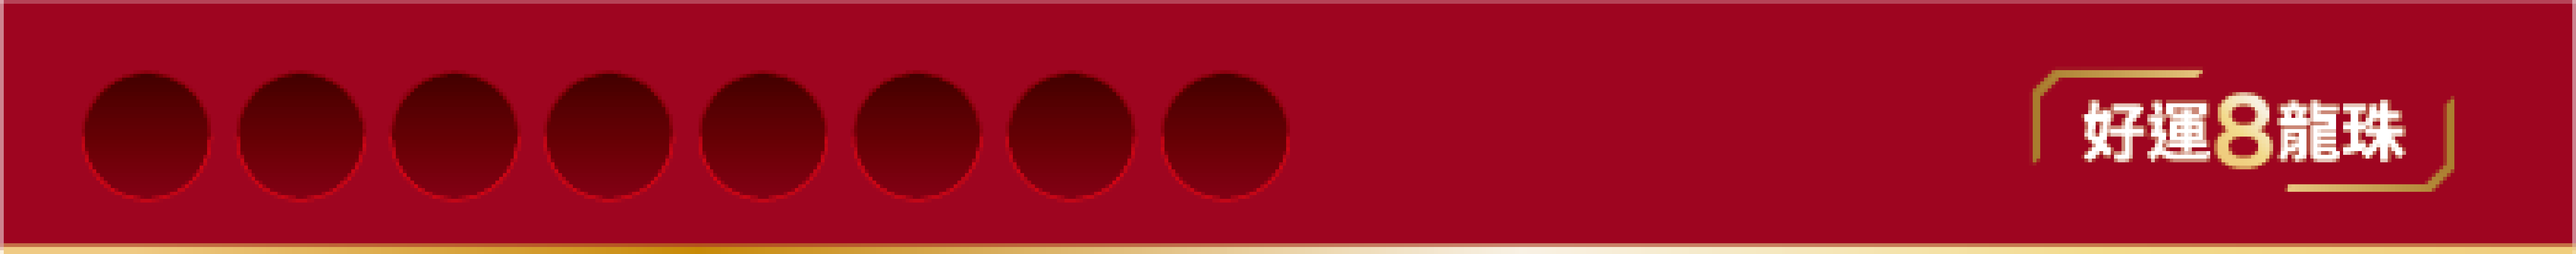
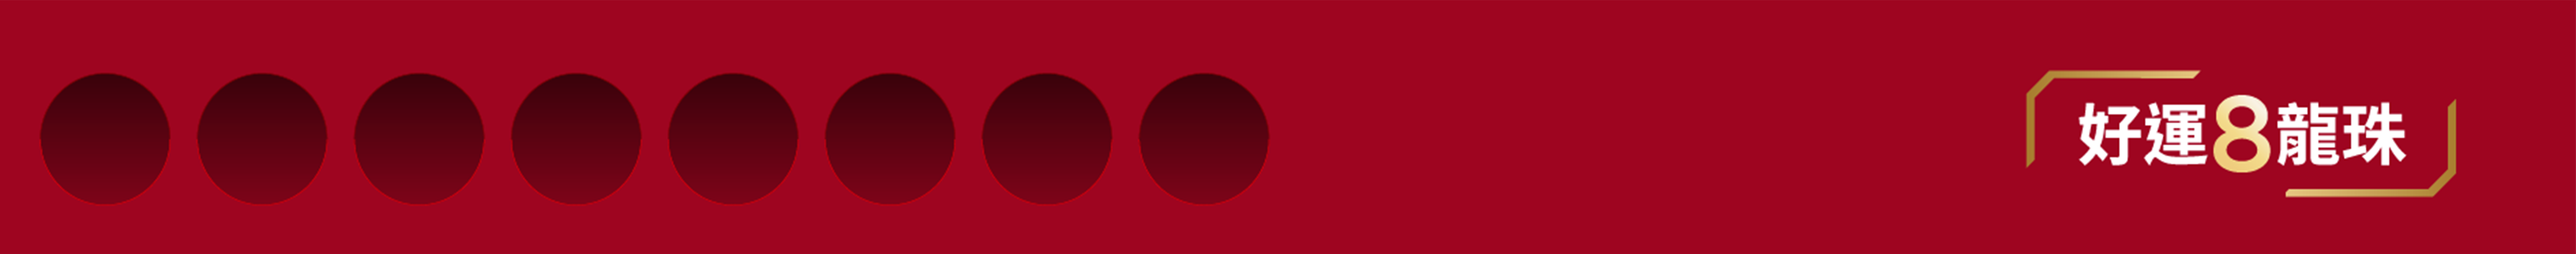
[modify] change game header

diff --git a/docs/sw.js b/docs/sw.js
@@ -1,1 +1,1 @@
-if(!self.define){let e,i={};const a=(a,s)=>(a=new URL(a+".js",s).href,i[a]||new Promise((i=>{if("document"in self){const e=document.createElement("script");e.src=a,e.onload=i,document.head.appendChild(e)}else e=a,importScripts(a),i()})).then((()=>{let e=i[a];if(!e)throw new Error(`Module ${a} didn’t register its module`);return e})));self.define=(s,n)=>{const r=e||("document"in self?document.currentScript.src:"")||location.href;if(i[r])return;let c={};const d=e=>a(e,r),o={module:{uri:r},exports:c,require:d};i[r]=Promise.all(s.map((e=>o[e]||d(e)))).then((e=>(n(...e),c)))}}define(["./workbox-fa446783"],(function(e){"use strict";self.skipWaiting(),e.clientsClaim(),e.precacheAndRoute([{url:"assets/index-8cd04b95.js",revision:null},{url:"assets/index-d4e6b2a1.css",revision:null},{url:"index.html",revision:"e6782ae1e422f24c08f292a48dc8074b"},{url:"registerSW.js",revision:"1872c500de691dce40960bb85481de07"},{url:"321.mp3",revision:"3bd591d610049c259f3768fd35f8ba0f"},{url:"audio-speaker-off.png",revision:"e46a88ab8493f86764cbe64dd250adf5"},{url:"audio-speaker-on.png",revision:"0f68480c86cd9569a7bd660ea0b1abb1"},{url:"bg.mp3",revision:"1939fe9c9d71e53d960f581d068bd9ed"},{url:"click.mp3",revision:"0549e1376c71663510db6425f2b10d4e"},{url:"pwa-logo.png",revision:"ecc5baf4ff30ede170fc950900658b74"},{url:"img/icons/android-chrome-192x192.png",revision:"3ef4a95391ff2bfd5f442ea89292b3fa"},{url:"img/icons/android-chrome-512x512.png",revision:"4fd10861636b509a53d091e1c6cd8f64"},{url:"img/icons/android-chrome-maskable-192x192.png",revision:"3ef4a95391ff2bfd5f442ea89292b3fa"},{url:"img/icons/android-chrome-maskable-512x512.png",revision:"4fd10861636b509a53d091e1c6cd8f64"},{url:"img/icons/apple-touch-icon-120x120.png",revision:"c24de0bfa43e42fd8568d1b38262c4c3"},{url:"img/icons/apple-touch-icon-152x152.png",revision:"de8e6c5c1e047c79711200a9529be00e"},{url:"img/icons/apple-touch-icon-180x180.png",revision:"f66b5015d880335cb607d474025316e8"},{url:"img/icons/apple-touch-icon-60x60.png",revision:"91035985e360cd3b9e443066bccdc53a"},{url:"img/icons/apple-touch-icon-76x76.png",revision:"c14d8293625bbec500e0e9dec5848336"},{url:"img/icons/apple-touch-icon.png",revision:"f66b5015d880335cb607d474025316e8"},{url:"img/icons/favicon-16x16.png",revision:"49610a9d0e3026ebfaec1aa32f22b67f"},{url:"img/icons/favicon-32x32.png",revision:"e3c7c3355821030a05ac1e54e105e973"},{url:"img/icons/msapplication-icon-144x144.png",revision:"4db12ddb2969ae559fe8cc63810e7747"},{url:"img/icons/mstile-150x150.png",revision:"8bf70c634505b233c8b293cf3a749278"},{url:"img/icons/safari-pinned-tab.svg",revision:"86b564b18ea6c7e170fa6cb87ca03bcf"},{url:"assets/img/12_14_finished.png",revision:"a870acbf48cc8d64d949abd03ab92052"},{url:"assets/img/ball_light.png",revision:"11ffa497bd4e6f5ba8789b584b464348"},{url:"assets/img/black_bg.png",revision:"2c019e9e6bccf9f989349f8b4902df4d"},{url:"assets/img/charm.png",revision:"7a59770e7caaa60af67a447a67f842f1"},{url:"assets/img/charm_bg.png",revision:"8cbacc76583d1c30f68951fdd04853a2"},{url:"assets/img/charm_shadow.png",revision:"86b80104720873d004d1647e19a723f3"},{url:"assets/img/dragon_right_big.png",revision:"ab83fd69d5b4f3120fda3eeabe7624b5"},{url:"assets/img/dragon_right_small.png",revision:"7c14218028178f9bbfd5a315d4962d76"},{url:"assets/img/final_bg.png",revision:"407d758e0a49c25dd1c33995f34a4c5e"},{url:"assets/img/game_ball.png",revision:"deae6db0f7233ab3299a7c1adbca2372"},{url:"assets/img/game_ball_cloud.png",revision:"5c66e37a987089a9a03389eccf4bf39a"},{url:"assets/img/game_ball_infinite.png",revision:"eb7bb876bad1c0e7d6a8a3e12f31939e"},{url:"assets/img/game_ball_shadow.png",revision:"f14fabcca4dcf82a15e244795d04088c"},{url:"assets/img/game_ball_star.png",revision:"adc6fa1f181f27739f247749d7174809"},{url:"assets/img/game_ball_wind.png",revision:"cc1724b3a3a0015b55884a11a5a0156b"},{url:"assets/img/game_bg.png",revision:"266fa85d2f8a6e8577a09583253ad348"},{url:"assets/img/game_count_down_1.png",revision:"f859b94ffa931eb4905349206055dc31"},{url:"assets/img/game_count_down_2.png",revision:"4fd6d3c6a62e7bfd9ae5c13058d5c640"},{url:"assets/img/game_count_down_3.png",revision:"f5cea6cd0ee93bd623e5185a77307eda"},{url:"assets/img/game_frame.png",revision:"d4c0c7479a3e64ad69362b318e416d94"},{url:"assets/img/game_header.png",revision:"28bfb3ca5717aa08a1f29a76af22f076"},{url:"assets/img/game_intro_bg.png",revision:"1cc102c7f1f418e3e3d1d65a71c6ade2"},{url:"assets/img/ground.png",revision:"3d676879acc881ff0c9f6a341cfcd5a8"},{url:"assets/img/index_title.png",revision:"b46a6cd97f431cc5642c1f8f71c2bd1a"},{url:"assets/img/intro_2_main.png",revision:"2b25254eb89d6118aefe39fd1d9f570f"},{url:"assets/img/intro_2_title.png",revision:"e5a29516eb7efd52bb9f2b3145807ed2"},{url:"assets/img/left_down_cloud.png",revision:"ea9a97fd0861b55bfc00664f990103a4"},{url:"assets/img/logo.png",revision:"5ea8c0e167ad97e21d6dd32295f53a2a"},{url:"assets/img/logo_left_top.png",revision:"5105f4b42da1e5adb9f9ba970a388788"},{url:"assets/img/main_product_full.png",revision:"f9c457d9e6534de2df7f7a8f104045ba"},{url:"assets/img/right_belt_slogan.png",revision:"2e2d8f48c4ab5a5ae8df706fb001f499"},{url:"assets/img/right_down_belt_without_slogan.png",revision:"162d7093e3735f6eb114ea09f10d1169"},{url:"assets/img/right_top_play_button.png",revision:"1d8f6b2392822e67f1ed8721a7282989"},{url:"assets/img/side_dragon.png",revision:"8a5c14fc23b1c3e5de418f4cbfeaa7ec"},{url:"assets/img/wave_ground.png",revision:"2e6c8f7ec31b53c681ae5e4fb721f08f"},{url:"assets/img/woman.png",revision:"7a0e3bb88a54e81e1091a5b846b8bf45"},{url:"assets/img/yellow_bg.png",revision:"9aee5a12e6b5cdd2dacf847ac39b736f"},{url:"manifest.webmanifest",revision:"57439dbce5a2c575d7bbf99676e164bf"}],{}),e.cleanupOutdatedCaches(),e.registerRoute(new e.NavigationRoute(e.createHandlerBoundToURL("index.html")))}));
+if(!self.define){let e,i={};const a=(a,s)=>(a=new URL(a+".js",s).href,i[a]||new Promise((i=>{if("document"in self){const e=document.createElement("script");e.src=a,e.onload=i,document.head.appendChild(e)}else e=a,importScripts(a),i()})).then((()=>{let e=i[a];if(!e)throw new Error(`Module ${a} didn’t register its module`);return e})));self.define=(s,n)=>{const r=e||("document"in self?document.currentScript.src:"")||location.href;if(i[r])return;let c={};const d=e=>a(e,r),o={module:{uri:r},exports:c,require:d};i[r]=Promise.all(s.map((e=>o[e]||d(e)))).then((e=>(n(...e),c)))}}define(["./workbox-fa446783"],(function(e){"use strict";self.skipWaiting(),e.clientsClaim(),e.precacheAndRoute([{url:"assets/index-8cd04b95.js",revision:null},{url:"assets/index-d4e6b2a1.css",revision:null},{url:"index.html",revision:"e6782ae1e422f24c08f292a48dc8074b"},{url:"registerSW.js",revision:"1872c500de691dce40960bb85481de07"},{url:"321.mp3",revision:"3bd591d610049c259f3768fd35f8ba0f"},{url:"audio-speaker-off.png",revision:"e46a88ab8493f86764cbe64dd250adf5"},{url:"audio-speaker-on.png",revision:"0f68480c86cd9569a7bd660ea0b1abb1"},{url:"bg.mp3",revision:"1939fe9c9d71e53d960f581d068bd9ed"},{url:"click.mp3",revision:"0549e1376c71663510db6425f2b10d4e"},{url:"pwa-logo.png",revision:"ecc5baf4ff30ede170fc950900658b74"},{url:"assets/img/12_14_finished.png",revision:"a870acbf48cc8d64d949abd03ab92052"},{url:"assets/img/ball_light.png",revision:"11ffa497bd4e6f5ba8789b584b464348"},{url:"assets/img/black_bg.png",revision:"2c019e9e6bccf9f989349f8b4902df4d"},{url:"assets/img/charm.png",revision:"7a59770e7caaa60af67a447a67f842f1"},{url:"assets/img/charm_bg.png",revision:"8cbacc76583d1c30f68951fdd04853a2"},{url:"assets/img/charm_shadow.png",revision:"86b80104720873d004d1647e19a723f3"},{url:"assets/img/dragon_right_big.png",revision:"ab83fd69d5b4f3120fda3eeabe7624b5"},{url:"assets/img/dragon_right_small.png",revision:"7c14218028178f9bbfd5a315d4962d76"},{url:"assets/img/final_bg.png",revision:"407d758e0a49c25dd1c33995f34a4c5e"},{url:"assets/img/game_ball.png",revision:"deae6db0f7233ab3299a7c1adbca2372"},{url:"assets/img/game_ball_cloud.png",revision:"5c66e37a987089a9a03389eccf4bf39a"},{url:"assets/img/game_ball_infinite.png",revision:"eb7bb876bad1c0e7d6a8a3e12f31939e"},{url:"assets/img/game_ball_shadow.png",revision:"f14fabcca4dcf82a15e244795d04088c"},{url:"assets/img/game_ball_star.png",revision:"adc6fa1f181f27739f247749d7174809"},{url:"assets/img/game_ball_wind.png",revision:"cc1724b3a3a0015b55884a11a5a0156b"},{url:"assets/img/game_bg.png",revision:"266fa85d2f8a6e8577a09583253ad348"},{url:"assets/img/game_count_down_1.png",revision:"f859b94ffa931eb4905349206055dc31"},{url:"assets/img/game_count_down_2.png",revision:"4fd6d3c6a62e7bfd9ae5c13058d5c640"},{url:"assets/img/game_count_down_3.png",revision:"f5cea6cd0ee93bd623e5185a77307eda"},{url:"assets/img/game_frame.png",revision:"d4c0c7479a3e64ad69362b318e416d94"},{url:"assets/img/game_header.png",revision:"ab51a073e76d2499060c8a80f317b034"},{url:"assets/img/game_intro_bg.png",revision:"1cc102c7f1f418e3e3d1d65a71c6ade2"},{url:"assets/img/ground.png",revision:"3d676879acc881ff0c9f6a341cfcd5a8"},{url:"assets/img/index_title.png",revision:"b46a6cd97f431cc5642c1f8f71c2bd1a"},{url:"assets/img/intro_2_main.png",revision:"2b25254eb89d6118aefe39fd1d9f570f"},{url:"assets/img/intro_2_title.png",revision:"e5a29516eb7efd52bb9f2b3145807ed2"},{url:"assets/img/left_down_cloud.png",revision:"ea9a97fd0861b55bfc00664f990103a4"},{url:"assets/img/logo.png",revision:"5ea8c0e167ad97e21d6dd32295f53a2a"},{url:"assets/img/logo_left_top.png",revision:"5105f4b42da1e5adb9f9ba970a388788"},{url:"assets/img/main_product_full.png",revision:"f9c457d9e6534de2df7f7a8f104045ba"},{url:"assets/img/right_belt_slogan.png",revision:"2e2d8f48c4ab5a5ae8df706fb001f499"},{url:"assets/img/right_down_belt_without_slogan.png",revision:"162d7093e3735f6eb114ea09f10d1169"},{url:"assets/img/right_top_play_button.png",revision:"1d8f6b2392822e67f1ed8721a7282989"},{url:"assets/img/side_dragon.png",revision:"8a5c14fc23b1c3e5de418f4cbfeaa7ec"},{url:"assets/img/wave_ground.png",revision:"2e6c8f7ec31b53c681ae5e4fb721f08f"},{url:"assets/img/woman.png",revision:"7a0e3bb88a54e81e1091a5b846b8bf45"},{url:"assets/img/yellow_bg.png",revision:"9aee5a12e6b5cdd2dacf847ac39b736f"},{url:"img/icons/android-chrome-192x192.png",revision:"3ef4a95391ff2bfd5f442ea89292b3fa"},{url:"img/icons/android-chrome-512x512.png",revision:"4fd10861636b509a53d091e1c6cd8f64"},{url:"img/icons/android-chrome-maskable-192x192.png",revision:"3ef4a95391ff2bfd5f442ea89292b3fa"},{url:"img/icons/android-chrome-maskable-512x512.png",revision:"4fd10861636b509a53d091e1c6cd8f64"},{url:"img/icons/apple-touch-icon-120x120.png",revision:"c24de0bfa43e42fd8568d1b38262c4c3"},{url:"img/icons/apple-touch-icon-152x152.png",revision:"de8e6c5c1e047c79711200a9529be00e"},{url:"img/icons/apple-touch-icon-180x180.png",revision:"f66b5015d880335cb607d474025316e8"},{url:"img/icons/apple-touch-icon-60x60.png",revision:"91035985e360cd3b9e443066bccdc53a"},{url:"img/icons/apple-touch-icon-76x76.png",revision:"c14d8293625bbec500e0e9dec5848336"},{url:"img/icons/apple-touch-icon.png",revision:"f66b5015d880335cb607d474025316e8"},{url:"img/icons/favicon-16x16.png",revision:"49610a9d0e3026ebfaec1aa32f22b67f"},{url:"img/icons/favicon-32x32.png",revision:"e3c7c3355821030a05ac1e54e105e973"},{url:"img/icons/msapplication-icon-144x144.png",revision:"4db12ddb2969ae559fe8cc63810e7747"},{url:"img/icons/mstile-150x150.png",revision:"8bf70c634505b233c8b293cf3a749278"},{url:"img/icons/safari-pinned-tab.svg",revision:"86b564b18ea6c7e170fa6cb87ca03bcf"},{url:"manifest.webmanifest",revision:"57439dbce5a2c575d7bbf99676e164bf"}],{}),e.cleanupOutdatedCaches(),e.registerRoute(new e.NavigationRoute(e.createHandlerBoundToURL("index.html")))}));
